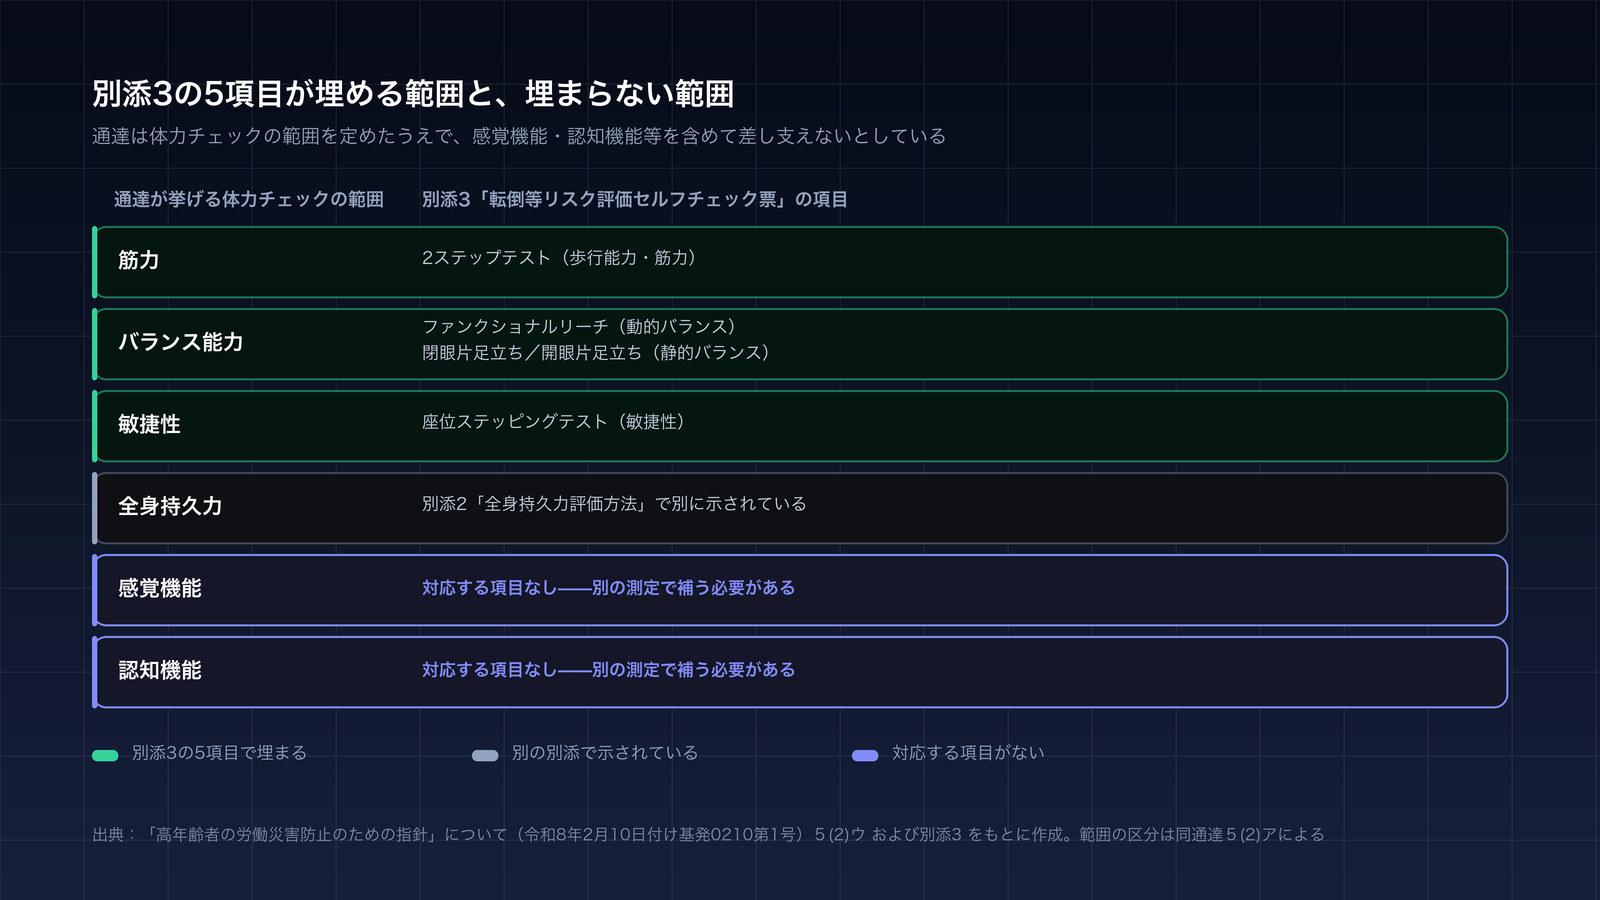
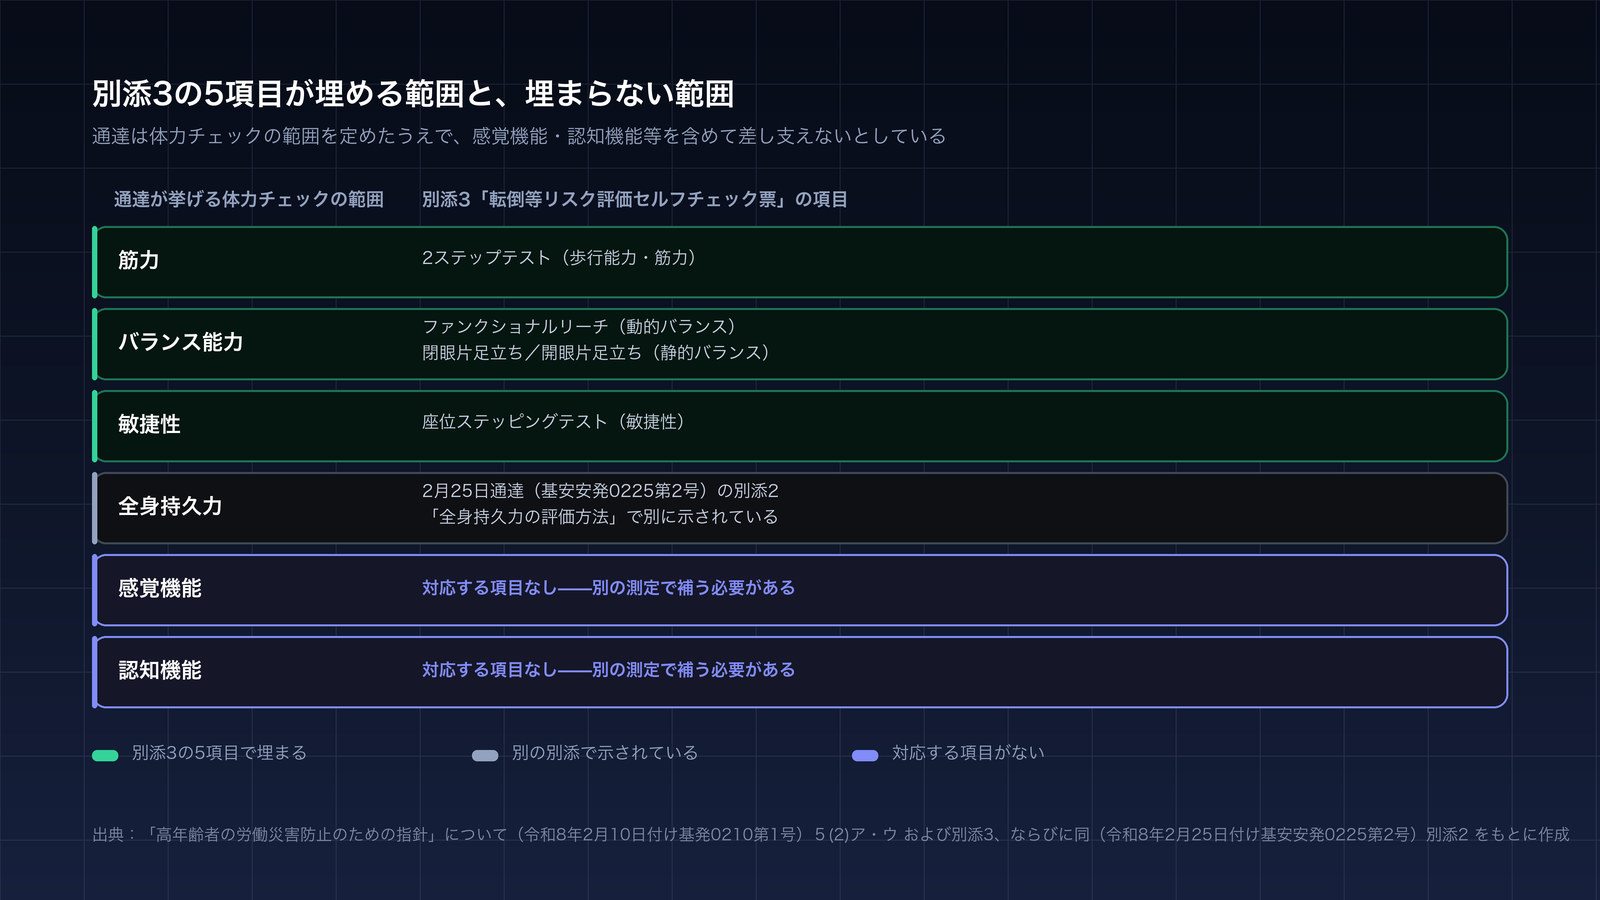
「2ステップテスト」の図版に残っていた別添番号の誤りを訂正
484fcae で本文と出典は直したが、図版 fig-selfcheck-coverage が
古いままだったため、本文と食い違っていた。

- 図の「全身持久力」の行を「別添2『全身持久力評価方法』」から
  「2月25日通達（基安安発0225第2号）の別添2『全身持久力の評価方法』」に
- 図の出典行に2月25日通達を追加し、2月10日通達の参照箇所も５(2)ア・ウ に整理
- 画像の alt を図に合わせ、全身持久力（別の別添で示されている）と
  感覚機能・認知機能（対応する項目がない）を書き分けた

Changed region(s): [[0.25, 0.5289, 0.5, 0.5911], [0.5312, 0.9022, 0.9688, 0.9333]]

diff --git a/web/scripts/generate-column-figures.py b/web/scripts/generate-column-figures.py
@@ -1166,7 +1166,9 @@ def figure_selfcheck_coverage(out):
         ("バランス能力", ["ファンクショナルリーチ（動的バランス）",
                      "閉眼片足立ち／開眼片足立ち（静的バランス）"], True),
         ("敏捷性", ["座位ステッピングテスト（敏捷性）"], True),
-        ("全身持久力", ["別添2「全身持久力評価方法」で別に示されている"], None),
+        # 全身持久力の評価方法は2月10日通達ではなく、これを補足する2月25日通達の別添2
+        ("全身持久力", ["2月25日通達（基安安発0225第2号）の別添2",
+                   "「全身持久力の評価方法」で別に示されている"], None),
         ("感覚機能", [], False),
         ("認知機能", [], False),
     ]
@@ -1208,8 +1210,8 @@ def figure_selfcheck_coverage(out):
         d.text((cx + 40 * SS, ly), label, font=font(17), fill=MIST)
 
     d.text((92 * SS, CH - 74 * SS),
-           "出典：「高年齢者の労働災害防止のための指針」について（令和8年2月10日付け基発0210第1号）５(2)ウ および別添3 をもとに作成。"
-           "範囲の区分は同通達５(2)アによる",
+           "出典：「高年齢者の労働災害防止のための指針」について（令和8年2月10日付け基発0210第1号）５(2)ア・ウ および別添3、"
+           "ならびに同（令和8年2月25日付け基安安発0225第2号）別添2 をもとに作成",
            font=font(16), fill=tuple(round(c * 0.85) for c in MIST))
     save(img, out)
 
